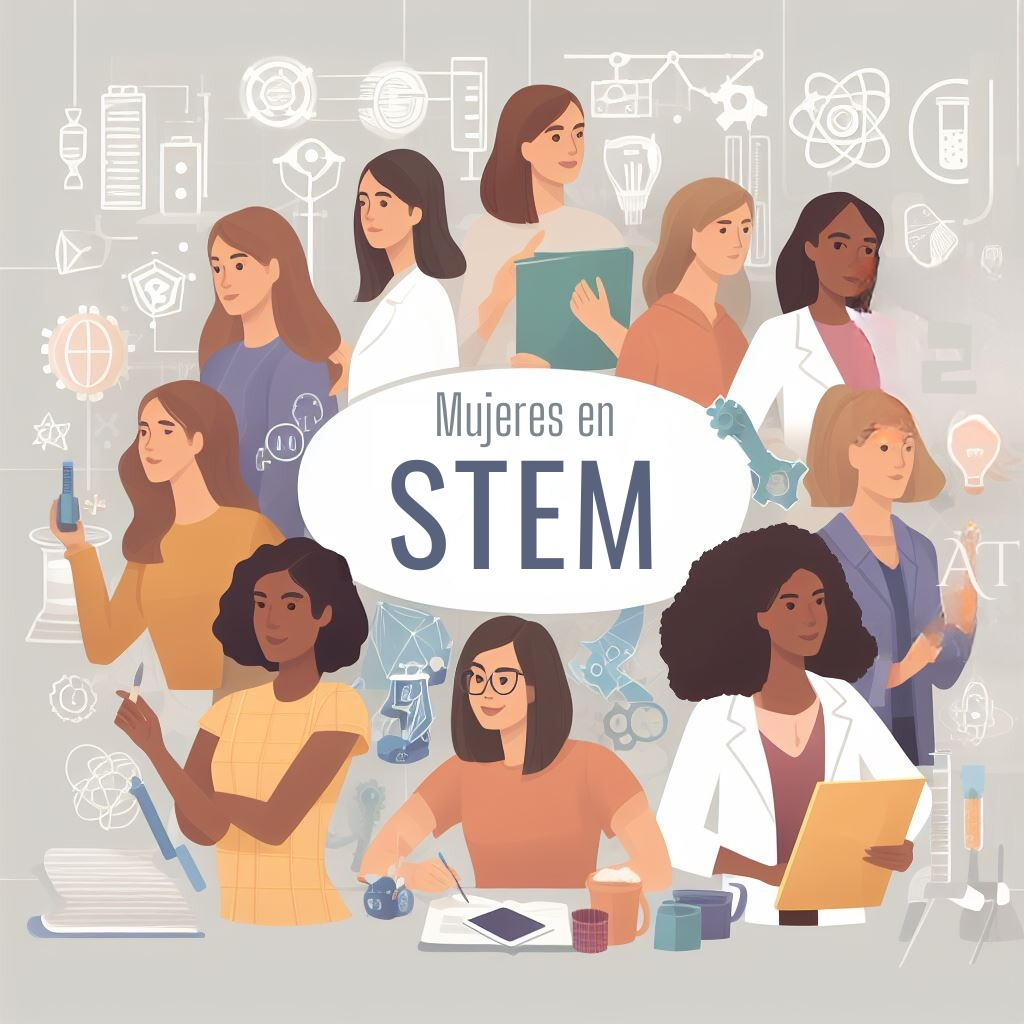
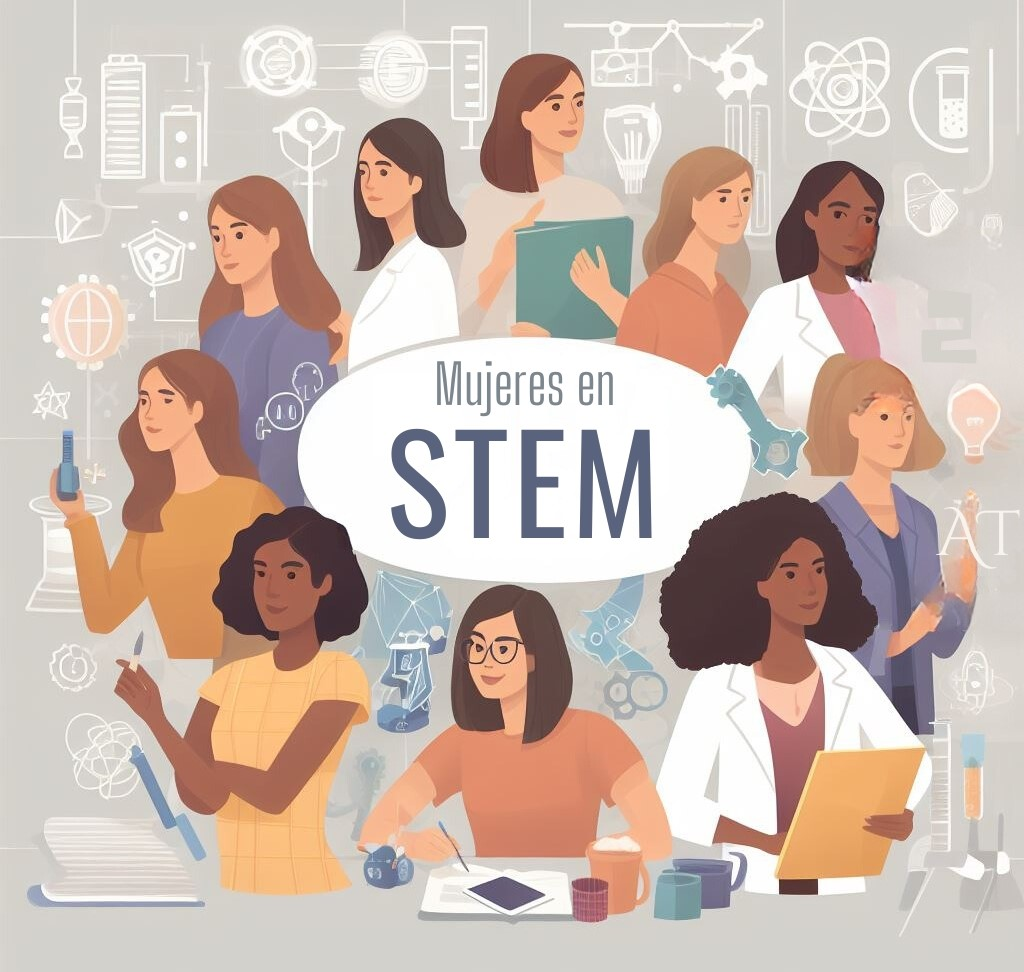
Link a Intro

diff --git a/src/components/Cursos/Body2.jsx b/src/components/Cursos/Body2.jsx
@@ -2,25 +2,28 @@ import React from 'react';
 import '../../Styles/pCursos.css';
 import MujerSTEM from "../../img/generales/STEMimg.jpg";
 import { Link } from 'react-router-dom';
-
+import IntroStemImage from "../../img/generales/IntroStemImage.jpg";
 
 
 function Body2(){
 
 return(
-
     <div class="container-flex text-center">
-                
-            <div>
-                    <>
-                    <Link to="/MujeresSTEM">
-                        <img 
-                        src={MujerSTEM} 
-                        alt="Mujeres en STEM" 
-                        className="img-mujeres-stem img-fluid imgZoom" />
-                        </Link>  
-                    </>
+
+        <Link to="/IntroStem">
+                    <img 
+                    src={IntroStemImage} 
+                    alt="Intro Stem" 
+                    className="img-mujeres-stem img-fluid imgZoom" />
+                </Link>
+
+                <Link to="/MujeresSTEM">
+                    <img 
+                    src={MujerSTEM} 
+                    alt="Mujeres en STEM" 
+                    className="img-mujeres-stem img-fluid imgZoom" />
+                </Link>  
             </div>
-        </div>
+
 )}
 export default Body2;

diff --git a/src/Styles/pCursos.css b/src/Styles/pCursos.css
@@ -82,9 +82,9 @@ ul>li{
 
 
 .img-mujeres-stem {
-  padding-top: 20px;
-  height: 25%;
-  width: 25%;
+  padding: 20px;
+  height: 30%;
+  width: 30%;
   border-radius: 113px;
 
 }
